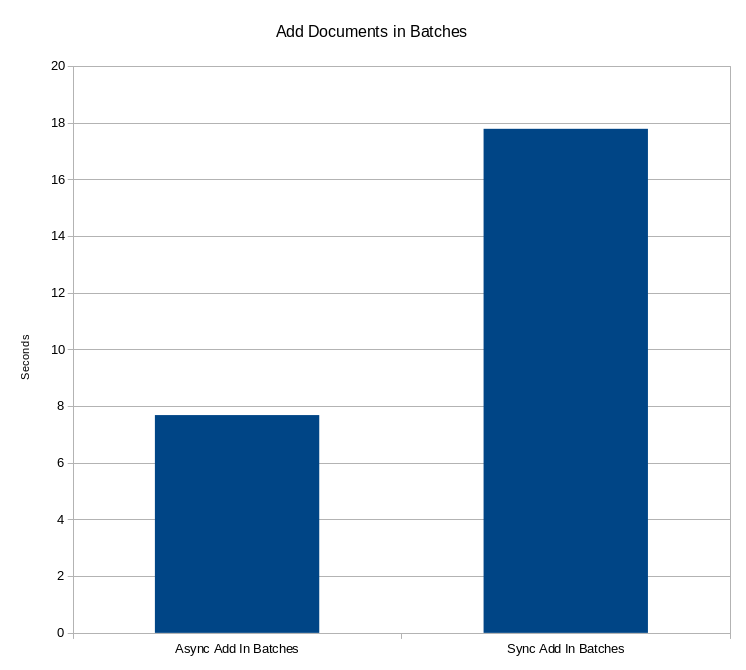
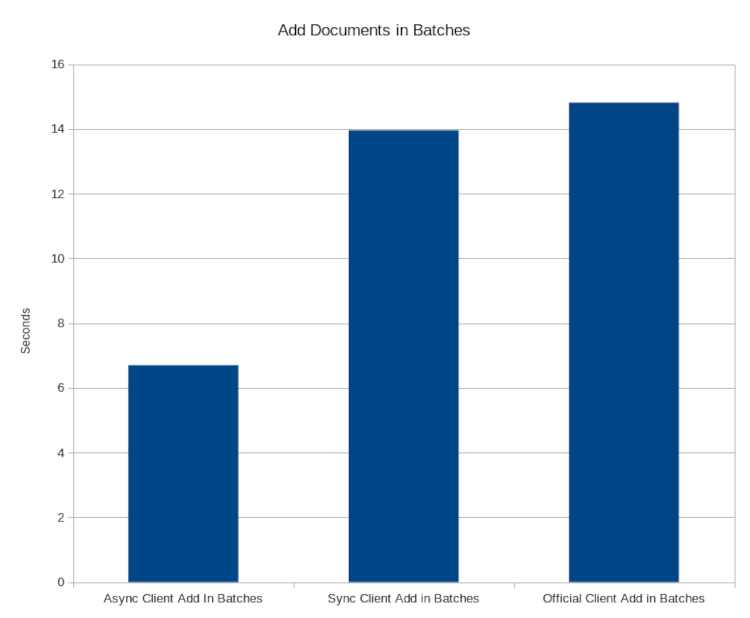
Update readme

diff --git a/benchmark/run_benchmark.py b/benchmark/run_benchmark.py
@@ -116,7 +116,7 @@ async def run_async_batch_add_benchmark(data: list[dict[str, Any]]) -> list[floa
 
 async def run_async_search_benchmark(movies_sampled: list[str]) -> list[float]:
     times = []
-    for _ in track(range(10), description="Running async multi function benchmark..."):
+    for _ in track(range(10), description="Running async multi search benchmark..."):
         async with AsyncClient("http://127.0.0.1:7700", "masterKey") as client:
             index = client.index("movies")
             searches = []
@@ -160,7 +160,7 @@ def run_sync_search_benchmark(movies_sampled: list[str]) -> list[float]:
     client = Client("http://127.0.0.1:7700", "masterKey")
     index = client.index("movies")
     times = []
-    for _ in track(range(10), description="Running sync multi function benchmark..."):
+    for _ in track(range(10), description="Running sync multi search benchmark..."):
         start = time()
         for movie in movies_sampled:
             index.search(movie)
@@ -189,7 +189,7 @@ def run_meili_search_benchmark(movies_sampled: list[str]) -> list[float]:
     client = MeilisearchClient("http://127.0.0.1:7700", "masterKey")
     index = client.index("movies")
     times = []
-    for _ in track(range(10), description="Running meili multi function benchmark..."):
+    for _ in track(range(10), description="Running meili multi search benchmark..."):
         start = time()
         for movie in movies_sampled:
             index.search(movie)

diff --git a/README.md b/README.md
@@ -6,13 +6,20 @@
 [![PyPI version](https://badge.fury.io/py/meilisearch-python-async.svg)](https://badge.fury.io/py/meilisearch-python-async)
 [![PyPI - Python Version](https://img.shields.io/pypi/pyversions/meilisearch-python-async?color=5cc141)](https://github.com/sanders41/meilisearch-python-async)
 
-Meilisearch Python Async is a Python async client for the [Meilisearch](https://github.com/meilisearch/meilisearch) API. Meilisearch also has an official [Python client](https://github.com/meilisearch/meilisearch-python).
+Meilisearch Python Async provides both an async and sync client for the
+[Meilisearch](https://github.com/meilisearch/meilisearch) API.
 
-Which of the two clients to use comes down to your particular use case. The purpose for this async client is to allow for non-blocking calls when working in async frameworks such as [FastAPI](https://fastapi.tiangolo.com/), or if your own code base you are working in is async. If this does not match your use case then the official client will be a better choice.
+Which client to use depends on your use case. If the code base you are working with uses asyncio,
+for example if you are using [FastAPI](https://fastapi.tiangolo.com/), chose the `AsyncClint`
+otherwise chose the `Client`. The functionality of the two clients is the same, the difference
+being the `AsyncClient` provides async methods and uses the `AsyncIndex`, which also provides async
+methods, while the `Client` provides blocking methods and uses the `Index`, which also provides
+blocking methods.
 
 ## Installation
 
-Using a virtual environmnet is recommended for installing this package. Once the virtual environment is created and activated install the package with:
+Using a virtual environmnet is recommended for installing this package. Once the virtual
+environment is created and activated install the package with:
 
 ```sh
 pip install meilisearch-python-async
@@ -20,7 +27,8 @@ pip install meilisearch-python-async
 
 ## Run Meilisearch
 
-There are several ways to [run Meilisearch](https://docs.meilisearch.com/reference/features/installation.html#download-and-launch).
+There are several ways to
+[run Meilisearch](https://docs.meilisearch.com/reference/features/installation.html#download-and-launch).
 Pick the one that works best for your use case and then start the server.
 
 As as example to use Docker:
@@ -34,12 +42,16 @@ docker run -it --rm -p 7700:7700 getmeili/meilisearch:latest ./meilisearch --mas
 
 ### Add Documents
 
-- Note: `client.index("books") creates an instance of an Index object but does not make a network call to send the data yet so it does not need to be awaited.
+
+#### AsyncClient
+
+- Note: `client.index("books") creates an instance of an AsyncIndex object but does not make a
+network call to send the data yet so it does not need to be awaited.
 
 ```py
-from meilisearch_python_async import Client
+from meilisearch_python_async import AsyncClient
 
-async with Client('http://127.0.0.1:7700', 'masterKey') as client:
+async with AsyncClient('http://127.0.0.1:7700', 'masterKey') as client:
     index = client.index("books")
 
     documents = [
@@ -50,19 +62,53 @@ async with Client('http://127.0.0.1:7700', 'masterKey') as client:
     await index.add_documents(documents)
 ```
 
-The server will return an update id that can be used to [get the status](https://docs.meilisearch.com/reference/api/updates.html#get-an-update-status)
-of the updates. To do this you would save the result response from adding the documets to a variable,
-this will be a UpdateId object, and use it to check the status of the updates.
+#### Client
+
+```py
+from meilisearch_python_async import Client
+
+client = Client('http://127.0.0.1:7700', 'masterKey')
+index = client.index("books")
+
+documents = [
+    {"id": 1, "title": "Ready Player One"},
+    {"id": 42, "title": "The Hitchhiker's Guide to the Galaxy"},
+]
+
+index.add_documents(documents)
+```
+
+The server will return an update id that can be used to
+[get the status](https://docs.meilisearch.com/reference/api/updates.html#get-an-update-status)
+of the updates. To do this you would save the result response from adding the documets to a
+variable, this will be a UpdateId object, and use it to check the status of the updates.
+
+#### AsyncClient
 
 ```py
 update = await index.add_documents(documents)
 status = await client.index('books').get_update_status(update.update_id)
 ```
 
+#### Client
+
+```py
+update = index.add_documents(documents)
+status = client.index('books').get_update_status(update.update_id)
+```
+
 ### Basic Searching
+
+#### AsyncClient
 
 ```py
 search_result = await index.search("ready player")
+```
+
+#### Client
+
+```py
+search_result = index.search("ready player")
 ```
 
 ### Base Search Results: SearchResults object with values
@@ -87,7 +133,21 @@ SearchResults(
 
 ### Custom Search
 
-Information about the parameters can be found in the [search parameters](https://docs.meilisearch.com/reference/features/search_parameters.html) section of the documentation.
+Information about the parameters can be found in the
+[search parameters](https://docs.meilisearch.com/reference/features/search_parameters.html) section
+of the documentation.
+
+#### AsyncClient
+
+```py
+await index.search(
+    "guide",
+    attributes_to_highlight=["title"],
+    filters="book_id > 10"
+)
+```
+
+#### Client
 
 ```py
 index.search(
@@ -125,9 +185,9 @@ SearchResults(
 
 The following benchmarks compare this library to the official
 [Meilisearch Python](https://github.com/meilisearch/meilisearch-python) library. Note that all
-of the performance gains seen are achieved by taking advantage of asyncio. This means that if your
-code is not taking advantage of asyncio or blocking the event loop the gains here will not be seen
-and the performance between the two libraries will be very close to the same.
+of the performance gains seen with the `AsyncClient` are achieved by taking advantage of asyncio.
+This means that if your code is not taking advantage of asyncio or blocking the event loop the
+gains here will not be seen and the performance between the clients will be very close to the same.
 
 ### Add Documents in Batches
 
@@ -146,8 +206,8 @@ This test compares how long it takes to complete 1000 searches (lower is better)
 ### Independent testing
 
 [Prashanth Rao](https://github.com/prrao87) did some independent testing and found this async client
-to be ~30% faster than the sync client for data ingestion. You can find a good write-up of the results how he tested them
-in his [blog post](https://thedataquarry.com/posts/meilisearch-async/).
+to be ~30% faster than the sync client for data ingestion. You can find a good write-up of the
+results how he tested them in his [blog post](https://thedataquarry.com/posts/meilisearch-async/).
 
 ## Documentation
 
@@ -155,4 +215,5 @@ See our [docs](https://meilisearch-python-async.paulsanders.dev) for the full do
 
 ## Contributing
 
-Contributions to this project are welcome. If you are interested in contributing please see our [contributing guide](CONTRIBUTING.md)
+Contributions to this project are welcome. If you are interested in contributing please see our
+[contributing guide](CONTRIBUTING.md)
